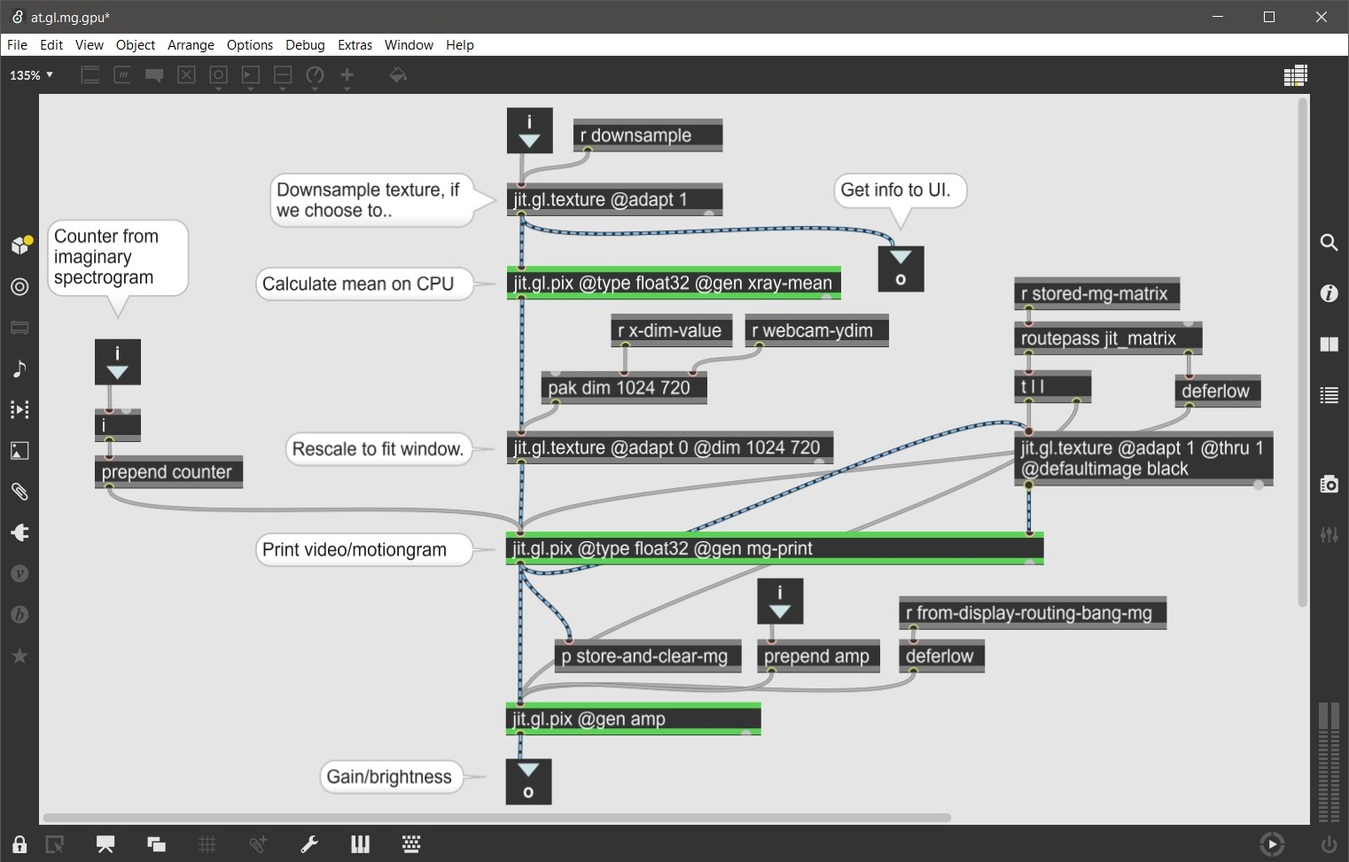
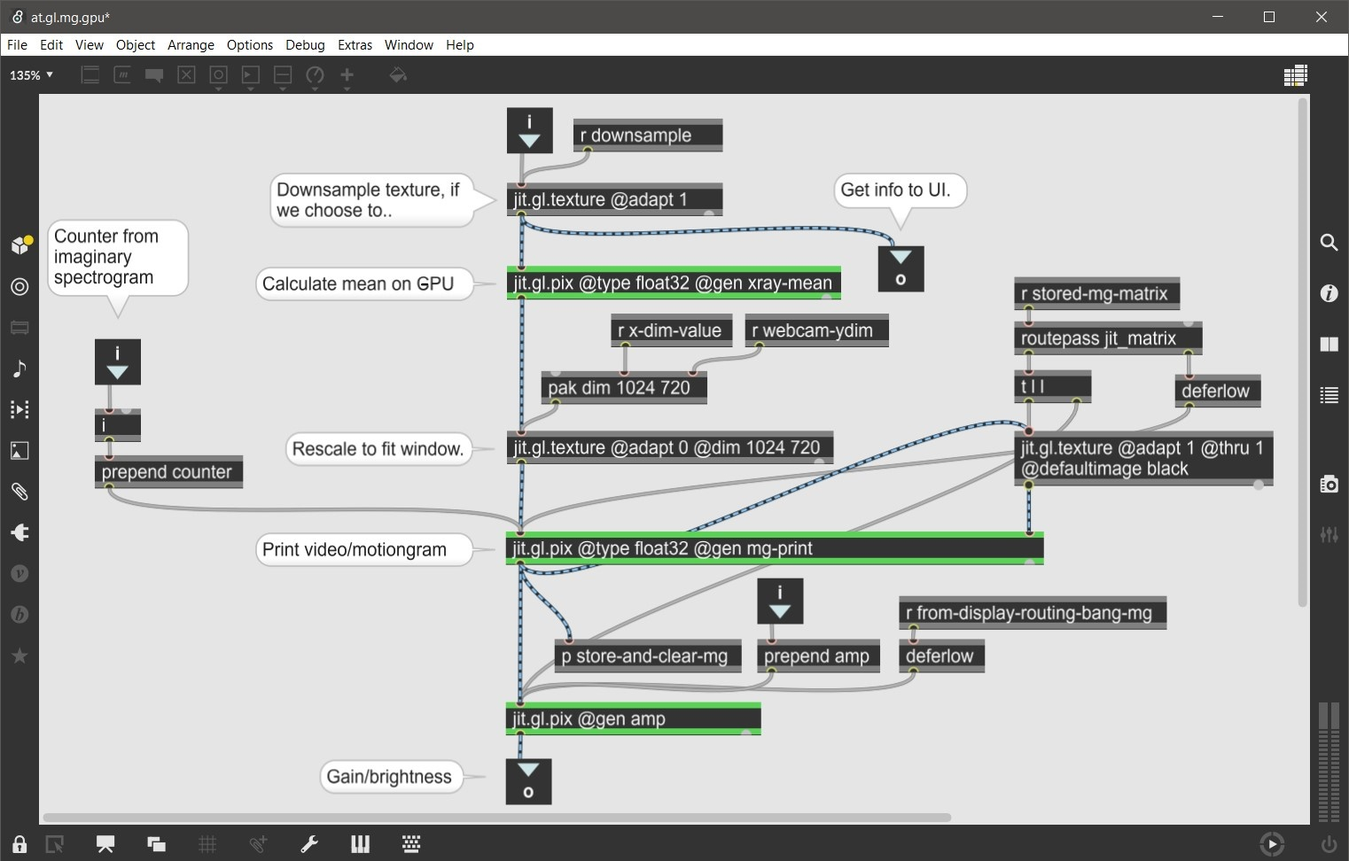
Post update

diff --git a/_posts/2020-08-04-how-to-process-spectral-mean-images.md b/_posts/2020-08-04-how-to-process-spectral-mean-images.md
@@ -20,12 +20,12 @@ As the title might suggest, in this post we will investigate what the most optim
 My investigation consists of an experiment where I designed and tested several of these OpenGL spectral mean image-producing systems in Max/MSP/Jitter to determine which was most effective. After briefly on elaborating on the background and method of this experiment, I will discuss the results before finally presenting the winning system(!)
 
 # Background
-Spectral mean images are representations of movement over time. These images are created by calculating the mean values of either every row or column of an incoming matrix, depending on if we want to represent time on the horizontal or vertical axis, and subsequently printing the outputted one-dimension matrices across a canvas or display.
+Spectral mean images are representations of movement over time. These images are created by calculating the vector mean values of either every row or column of an incoming matrix, depending on if we want to represent time on the horizontal or vertical axis, and subsequently printing the outputted one-dimension matrices across a canvas or display.
 
 <figure style="float: none">
    <img src="/assets/img/2020_08_04_spectral_motiongram_diagram.jpg" alt="motiongram diagram"
    title="motiongram diagram" width="640" />
-   <figcaption>Calculating mean values for every row of a frame (matrix) can be used to create a spectral mean image with time on its horizontal axis.</figcaption>
+   <figcaption>Simplified(!) image rendition of the vector mean process in question. When we process mean values along every row of a frame, we can use to create a spectral motion image with time on the horizontal axis. Since the alpha plane is a constant (1) its not included in this image.</figcaption>
 </figure>
 
 If we produce a spectral mean image from a motion image, we have something called a motiongram. We create a motion image by extracting the difference between two sequential frames of a video. This will render only the movement of the video in color while leaving the rest of the image black. The idea and concept behind motiongrams have been thoroughly researched and explored by professor [**Alexander Refsum Jensenius**](http://people.uio.no/alexanje) at the University of Oslo. You can read much more about this research side of videograms and motiongrams [**in this article**](https://www.duo.uio.no/handle/10852/26907).  
@@ -38,7 +38,7 @@ If we produce a spectral mean image from a motion image, we have something calle
 
 In the outdated version of AudioVideoAnalysis, the application I was tasked to whip into shape, this mean calculating process was handled by a MaxMSP external object called ```[xray.jit.mean]```. The XRAY external package was developed by Wesley Smith ([**read more here**](https://cycling74.com/forums/get-the-xray-package-by-wesley-smith/)) and is a set of jitter objects that do video processing on the CPU, the same way every other jitter object in MaxMSP operates. However, when dealing with graphics and video processing in MaxMSP today, it's highly recommended you "wrap your code" in something called an OpenGL context that enables your GPU to take care of all the graphical processing. OpenGL (Open Graphics Library) is a cross-platform graphics interface for 3D and 2D graphics and is often considered an industry standard in digital graphics circles. Because of this, I wanted the new version of AudioVideoAnalysis to have OpenGL image rendering. However, this gave rise to an interesting problem:
 
-> **Should an OpenGL spectral mean image system in Max/MSP/Jitter do pixel mean calculations on the CPU or the GPU?**
+> **Should an OpenGL spectral mean image system in Max/MSP/Jitter do vector mean calculations on the CPU or the GPU?**
 
 # The Problem Explained
 When doing computationally expensive tasks like calculating thousands (if not millions) of mathematical operations many times per second, as our system demands, the general norm is that these operations should be executed on the CPU. This is because the CPU is specifically designed for these kinds of tasks while the GPU is more optimized to deal with graphics. [**There's a great video**](https://www.youtube.com/watch?v=V3_p9R7YG-g) on the pros and cons of processing video in Max/MSP/Jitter on the CPU vs. the GPU by Federico Foderero. Be sure to check it out if you're interested in learning more.
@@ -129,23 +129,23 @@ In addition to having a fixed I/O vector size, signal vector size and sampling r
 
 # System Design
 
-Creating a spectral mean image system requires much more than just a process which calculates the mean of an image. I will therefore start by presenting how some of the more general features are designed in the **isolated system configurations**, before I go in-depth on how each of the different mean calculating methods are constructed.
+Creating a system that explores spectral mean images requires more than just a method for vector mean calculation. In this section I will explain which key processes are necessary to build these system, with the **isolated system configuration** as my focal point, before I go in-depth on how each of the different mean calculating methods are constructed.
 
 ### Overview
 
 <figure style="float: none">
   <img src="/assets/img/2020_08_04_spectral_system_overview.jpg"
   alt="System overview" title="System Overview" width="auto" />
-  <figcaption>System overview. The objects in blue are custom abstractions which grab the video-feed (at.webcam), create a motion image (at.vg.mg.selector), provides a counting mechanism (at.imaginary.fft.counter) and finally processes the mean images (at.gl.mg.cpu/gpu). All systems are created in Max/MSP/Jitter version 8.1.5</figcaption>
+  <figcaption>System overview. The objects in blue are abstractions which grab the video-feed (at.webcam), create a motion image (at.vg.mg.selector), provide a counting mechanism (at.imaginary.fft.counter) and finally calculates the vector means (at.gl.mg.cpu/gpu). All systems are created in Max/MSP/Jitter version 8.1.5</figcaption>
 </figure>
 
-In the image above, notice the ```[jit.gl.layer]``` and ```[jit.world]``` objects. I've set the systems maximum framerate by feeding a value to the @fps attribute in the [jit.world] object. Alternatively, I could set the @interval attribute to 17 for the same effect, a value that represents how many milliseconds between consecutive frames. More so, It's important to disable sync by adding @sync 0. The sync attribute let's us sync our image rendering to the fresh rate of our monitors, a feature I don't want in my particular case. The [jit.gl.layer] is where the image is sent to the [jit.world] to be rendered on the screen. Here, I specify that I want to preserve the aspect ratio of the incoming image in the rendered display window (@perserve_aspect 1) and that I want the image to be automatically scaled to fit the entire display window at any given time (@transform_reset 2).
+In the image above, notice the ```[jit.gl.layer]``` and ```[jit.world]``` objects. By setting the @fps attribute to 60 in the [jit.world] object, I can determine the systems maximum framerate. Alternatively, I could set the @interval attribute to 17 that would determine the maximum time interval (in milliseconds) between consecutive frames. The [jit.gl.layer] object sends content that is to be rendered on the screen to the [jit.world]. Here, It's important to make explicit that I want to preserve the aspect ratio of the incoming image (@perserve_aspect 1) and that I want the image to be automatically scaled to fit the entire display window at any given time (@transform_reset 2).
 
 <!--*
 overdrive off(!) because we are doing video processing.
 -->
 
-To access my machines web-camera, and to make it output video content in a OpenGL context, I use the ```[jit.qt.grab]```object with an @output_texture attribute set to 1. This object is located inside the blue [at.webcam] abstraction, shown in the image above. At this stage, I also enable the @unique attribute to makes sure no identical frames are outputted, a feature that is important for the next stage of creating a motion image.
+To access my machines web-camera, and to make it output video information in a OpenGL context, I use the ```[jit.qt.grab]```object with the @output_texture attribute set to 1. This object is located inside the blue [at.webcam] abstraction, shown in the image above. At this stage, I also enable the @unique attribute to makes sure no identical frames are outputted, a feature that's important for the next step which is creating a motion image.
 
 ### Motion image
 
@@ -155,9 +155,9 @@ To access my machines web-camera, and to make it output video content in a OpenG
   <figcaption>To create a motion image we calculate the difference between two frames. This image is a representation of what's inside the [at.vg.mg.selector] abstraction, seen in blue in the overview image above.</figcaption>
 </figure>
 
-As mentioned, a motion image is the result of calculating the difference between two consecutive frames. To do this in an OpenGL context, we can split and flip the order of frames before passing them through a [absdiff] calculation inside a ```[jit.gl.pix]``` object, as the image above shows. Having the @unique attribute enabled in the [jit.qt.grab] is essential because we never want to calculate the difference between two equal frames. The would result in an undesired amount of black frames between our rendered image frames.
+As mentioned, a motion image is the result of calculating the difference between two consecutive frames. To do this in an OpenGL context, we can split and flip the order of frames before passing them through a [absdiff] object inside a ```[jit.gl.pix]``` object. Having the @unique attribute enabled in the [jit.qt.grab] is essential because we never want to calculate the difference between two equal frames. This would result in an undesired amount of black/missing frames in our rendered spectral image.
 
-At this stage I also added 2 optional noise filters (binary and unary) that are used to optimize the motion image. Finally, I set the systems data type to float32 (storing 32-bit floating point values) to ensure greater processing precision down the line.
+At this stage I also added 2 optional noise filters (binary and unary) that can be used to optimize the quality of the motion image. Finally, I set the systems data type to float32 (storing 32-bit floating point values) to ensure greater processing precision down the line.
 
 ### Printing Rate
 
@@ -167,13 +167,13 @@ At this stage I also added 2 optional noise filters (binary and unary) that are 
   <figcaption>By making the counter length/size the same as the horizontal dimension (X-dim) of the rendered image, I can control the printing rate by adjusting the X-dim size. This image is a representation of what's inside the [at.imaginary.fft.counter] abstraction, seen in blue in the overview image above.</figcaption>
 </figure>
 
-For simplicities' sake, I decided to adapt a technique I used in my [**AudioVideoAnalysis**](https://aleksandertidemann.github.io/projects/2020/07/24/audiovideoanalysis.html) application to manage the printing rate of my spectral images. This design is based on MSP (audio signals) and uses specific FFT parameters, originally used to control the printing rate of a spectrogram, as its points of reference.
+For simplicities' sake, I decided to adapt a technique I used in the [**AudioVideoAnalysis application**](https://aleksandertidemann.github.io/projects/2020/07/24/audiovideoanalysis.html) to manage the printing rate of my spectral images. This design is based on MSP (audio signals) and uses specific FFT parameters, originally used to control the printing rate of a spectrogram, as its points of reference.
 
-In this method, I can adjust the rate of the printing by manipulating a dial that outputs normalized values ranging from 0 to 1. These values are then used to configure the size of the horizontal dimension (X-dim) of the rendered image, as well as to extract the printing time (in seconds). However, this requires us to have a fixed X-dim range, a range which I sat from 100 to 1024.
+In this method, I can adjust the rate of the printing by manipulating a dial that outputs normalized values ranging from 0 to 1. These values are then used to configure the size of the horizontal dimension (X-dim) of the rendered image, as well as to extract the printing time (in seconds). However, this requires us to have a fixed X-dim range, a range which I determined to be from 100 to 1024.
 
-Furthermore, I set the fundamental MSP ```[count~]``` object to count between a range of 0 and 5291926,6 because this number divided by 5167.9 (an essentially arbitrary number) amounts to a counting range from 0 to 1024 (our max X-dim) where one revolution is made every 60 seconds, presuming the samplerate is 44.1Khz. Next I compensated for an FFT Hopsize of 4 by simply multiplying the entire signal by 2, before allowing the maximum value of the counting range to de decided by the newly configured X-dim size.
+Furthermore, I set the fundamental MSP ```[count~]``` object to count between a range of 0 and 5291926,6 because this number divided by 5167.9 (an essentially arbitrary number) amounts to a range from 0 to 1024 (our max X-dim) where one cycle is made every 60 seconds, presuming the samplerate is 44.1Khz. Next I compensated for an FFT Hopsize of 4 by simply multiplying the entire signal by 2 before allowing the maximum value of the counting range to de decided by the newly configured X-dim size.
 
-The overall take-away here is that I adjust the printing rate by effectively "zooming in" on the spectral images.
+The overall take-away here is that I adjust the printing rate by effectively "zooming in" on the spectral images. Not a particularly elegant method, but an effective one.
 
 <figure style="float: none">
   <img src="/assets/img/2020_08_04_spectral_printing.jpg"
@@ -181,29 +181,30 @@ The overall take-away here is that I adjust the printing rate by effectively "zo
   <figcaption></figcaption>
 </figure>
 
-The final counter values are then sent to another ```[jit.gl.pix]``` object where they decide the specific horizontal location of the incoming spectral mean images/frames. The outputted image is then looped back into the [jit.gl.pix], as well as to the display window, to create the desired effect of an images printed across a canvas over time.
+The final counter values are then sent to another ```[jit.gl.pix]``` object where they decide the specific horizontal locations for the incoming spectral mean images/frames and produce the desired effect of an image printed across a canvas over time.
 
 ## XRAY method
 
 <figure style="float: none">
   <img src="/assets/img/2020_08_04_spectral_cpu_xray_method.jpg"
   alt="cpu xray method" title="cpu xray method" width="auto" />
-  <figcaption>This method uses [jit.gl.asyncread] and [xray.jit.mean] in succession to readback a GPU image texture to the CPU to perform mean calculations. This image is a representation of what's inside the [at.gl.mg.cpu] abstraction, seen in blue in the overview image above</figcaption>
+  <figcaption>This method uses [jit.gl.asyncread] and [xray.jit.mean] in succession to readback an openGL texture to the CPU before performing the necessary mean calculations there. This image is a representation of what's inside the [at.gl.mg.cpu] abstraction, seen in blue in the overview image above</figcaption>
 </figure>
 
-As briefly mentioned in the Methods section, this system uses a ```[xray.jit.mean]``` object to process the mean calculations on the CPU. This object is not part of the standard Max/MSP/Jitter library so it has to downloaded as part of the "XRAY package" from Max' dedicated package manager. Additionally, I used an object called ```[jit.gl.asyncread]``` that is specifically design to handle readbacks from an OpenGL framebuffer and is therefore a considerable advantage to any video processing chain that seeks to migrate stuff from the GPU to the CPU.
+As briefly mentioned in the Methods section, the **XRAY method** system uses a ```[xray.jit.mean]``` object to process vector mean calculations on the CPU*. In addition, I used an object called ```[jit.gl.asyncread]``` that is specifically design to handle readbacks from an OpenGL framebuffer and is therefore a considerable advantage to any video processing chain that seeks to migrate stuff from the GPU to the CPU. Finally, I send the video processing back to the GPU by feeding the CPU matrix into a ```[jit.gl.texture]``` harboring our the vertical dimension of my current web-camera resolution and the horizontal dimension controlled by my current printing rate.
 
-Finally I send the video processing back to the GPU by feeding the CPU matrix into a ```[jit.gl.texture]``` harboring our the vertical dimension of my current web-camera resolution and the horizontal dimension controlled by my current printing rate.
+*
+<sub>This object is not part of the standard Max/MSP/Jitter library so it has to downloaded as part of the "XRAY package" from Max' dedicated package manager.</sub>
 
 ## GPU method
 
 <figure style="float: none">
   <img src="/assets/img/2020_08_04_spectral_gpu_method.jpg"
   alt="gpu method" title="gpu method" width="auto" />
-  <figcaption>This method does pixel mean calculations on the GPU by using a for-loop inside a [jit.gl.pix]. This image is a representation of what's inside the [at.gl.mg.gpu] abstraction, seen in blue in the overview image above</figcaption>
+  <figcaption>This method does vector mean calculations on the GPU by using a for-loop inside a [jit.gl.pix]. This image is a representation of what's inside the [at.gl.mg.gpu] abstraction, seen in blue in the overview image above</figcaption>
 </figure>
 
-As you can tell from the image above, the **GPU method** is almost identical to the XRAY one only replacing the [jit.gl.asyncread] and [xray.jit.mean] with a ```[jit.gl.pix]``` object. Since there are no Gen objects in Max that does specifically what [xray.jit.mean] does, I figured that the best way of recreating its functionality was to hard-code something inside the [jit.gl.pix] using a codebox object.
+As you can tell from the image above, the **GPU method** is almost identical to the **XRAY method**, except the [jit.gl.asyncread] and [xray.jit.mean] objects are replaced with a ```[jit.gl.pix]``` object. Since there are no Gen objects in Max that specifically does what [xray.jit.mean] does, I figured that the best way of recreating its functionality was to hard-code something inside the [jit.gl.pix] using a codebox object.
 
 We can code inside MaxMSP's Gen environment using the GenExpr programming language. Luckily, at this stage, I was fortunate enough to receive some aid from a great 3D graphics artist and avid Max/MSP/Jitter user named [**Federico Foderero**](https://www.federicofoderaro.com/). Federico helped me with the specific syntax needed for these lines of code and later expanded on my idea of creating an OpenGL equivalent of ```[xray.jit.mean]``` himself in [**this video**](https://www.youtube.com/watch?v=hcHyiSKLpUA&list=UUvDUaH2fbXP_Yc5Lc9UXfqA). To do the necessary mean calculations on OpenGL textures we can use this GenExpr code:
 
@@ -220,7 +221,7 @@ out1 = main;
 ```
 
 ## PIX method
-The **PIX method** is somewhat of a hybrid between the XRAY and GPU methods. The idea here is to basically implement the same **GPU method**, with a GenExpr for-loop inside a codebox object, but run it on the CPU instead. We can easily do this in Max by removing the "gl" tag in the [jit.gl.pix] object to create a ```[jit.pix]```object. However, as mentioned, it's important we use a [jit.gl.asyncread] whenever you want to migrate operations from the GPU to the CPU. The general recipe of this mean calculating method looks like this:
+The **PIX method** is somewhat of a hybrid between the XRAY and GPU methods. The idea here is to basically implement the same **GPU method**, with a GenExpr for-loop inside a codebox, but run it on the CPU instead. We can easily do this in Max by removing the "gl" tag in the [jit.gl.pix] object to create a ```[jit.pix]```object. However, as mentioned, it's important we use a [jit.gl.asyncread] whenever we want to migrate operations from the GPU to the CPU. The general recipe of this mean calculating method looks like this:
 
 ```
 [jit.gl.asyncread] //Readback from GPU to CPU
@@ -231,7 +232,7 @@ The **PIX method** is somewhat of a hybrid between the XRAY and GPU methods. The
 This method also gives me the opportunity to closer inspect how the GenExpr language performs and if there's any significant difference when executing it on the CPU vs. the GPU.
 
 # Results
-When testing each method, I rated them on a scale from 0-10 in each test condition. However, I only marked each system with either a 1 or 0 in the audio settings category, indicating *"yes, changing the audio settings did affect performance"* or *"no, changing the audio settings did not affect performance"*.
+When testing each method, I rated them on a scale from 0-10 in each test conditions except for the audio parameter category. In this cateory, a rating of 1 indicates *"yes, changing the audio settings did effect performance"* while 0 indicates *"no, changing the audio settings did not effect performance"*.
 
 ## XRAY Method
 
@@ -241,9 +242,9 @@ When testing each method, I rated them on a scale from 0-10 in each test conditi
   <figcaption>Test results for using the XRAY method to calculate mean values when processing spectral images. The higher the score, the better the performance. </figcaption>
 </figure>
 
-Not surprisingly, the overall performance of the **XRAY method** was good in both configurations. However, when displaying high resolution images (1280x720) in the AVA configuration, its performance did depended on which machine I was using. On my early 2011 Macbook pro, processing high resolution images in this configuration resulted in significantly more blank frames than content. However, on my more powerful Thinkpad both resolutions created usable and consisted motion images overall.  
+Not surprisingly, the overall performance of the **XRAY method** was good in both configurations. However, when displaying high resolution images (1280x720) in the AVA configuration, its performance did depended on which machine I was using. On my early 2011 Macbook pro, processing high resolution images in this configuration resulted in a steady accumulation of blank/missing frames here and there. However, on my more powerful Thinkpad, both resolutions created usable and consisted motion images overall.  
 
-But regardless of some performance discrepancies when pushing the system quite hard, the overall load of the **XRAY method** applications was surprisingly low with only 5-10% increase in CPU usage from processing downsampled (320x240) to high resolution images (1280x720) on both machines. Similarly, running the applications on machines in low battery had little or no effect their performance.  
+But regardless of some performance discrepancies when pushing the system quite hard, the overall load of the **XRAY method** applications was surprisingly low with only 5-10% increase in CPU utilization from processing downsampled (320x240) to high resolution images (1280x720). Similarly, running the applications on machines with low battery had little or no effect on their performance.  
 
 <figure style="float: left; margin-left: 10px;">
   <img src="/assets/img/2020_08_04_spectral_xray_ava_downsample_load.jpg"
@@ -254,14 +255,14 @@ But regardless of some performance discrepancies when pushing the system quite h
 <figure style="float:none">
   <img src="/assets/img/2020_08_04_spectral_xray_ava_highres_load.jpg"
   alt="xray-ava-highres-load" title="xray-ava-highres-load" width="320" />
-  <figcaption>When processing 1280x720 high resolution images with the XRAY method in the same system configuration, there was only a 5% increase in CPU usage. Similar results were documented on my Macbook pro. </figcaption>
+  <figcaption>When processing high resolution images (1280x720) with the XRAY method in the same system configuration, there was only a 5% increase in CPU usage. Similar results were documented on my Macbook pro. </figcaption>
 </figure>
 
-But despite these relatively low CPU loads, the method did not show very promising framerates. When processing low resolution images the lowest recorded framerate I recorded was at about 14/15, which is very much usable, but on higher resolution images the lowest FPS reading was down at almost 6.
+But despite these relatively low CPU loads, the systems did not show very promising framerates. When processing low resolution images the lowest recorded framerate was around 14/15, which is very much usable, but on higher resolution images the lowest FPS reading was down at almost 6.
 
-An interesting discovery was that changing the I/O Vector Size and Signal Vector Size had a noticeable impact on its performance. This was visible when processing high resolution images in the AVA configuration, but it might also have an impact in less stressful configurations just not directly visible. But the consistent behavior here was that increasing the values of these audio settings effectively reduced the amount of lost frames (blank spots), which makes perfect sense considering that higher vector sizes reduce CPU load.
+An interesting discovery was that changing the ```I/O Vector Size``` and ```Signal Vector Size``` had a noticeable impact on performance. This was visible and consistent when processing high resolution images in the AVA configuration. The behavior was that increasing the values of these audio settings effectively reduced the amount of lost frames (blank spots), which makes perfect sense considering that higher vector sizes should reduce CPU load.
 
-In terms of image quality, I noticed no real advantages of rendering spectral image from high resolution video (1280x720), other than the occasional missing frame, as opposed to a downsampled (320x240) video.feed as the images below illustrates. The only factor that had any impact on the displayed image resolution, was increasing the temporal resolution or printing rate. An expected feature, and side-effect, of my system design.
+In terms of image quality, there was no advantage of rendering spectral images from high resolution video (1280x720), other than the occasional missing frame, as opposed to a downsampled (320x240) video-feed. The only factor that had any impact on the displayed image resolution was increasing the temporal resolution, or printing rate, of the images. An expected feature and side-effect of my system design.
 
 <figure style="float: left; margin-left: 10px;">
   <img src="/assets/img/2020_08_04_spectral_xray_display_downsampled.jpg"
@@ -283,9 +284,9 @@ In terms of image quality, I noticed no real advantages of rendering spectral im
   <figcaption>Test results for using the GPU method to calculate mean values when processing spectral images. The higher the score, the better the performance.</figcaption>
 </figure>
 
-Overall, the **GPU Method** showed some promising results when processing downsampled video-feeds. However, when processing high resolution images the system struggled to produce usable images, regardless of configuration or machine.
+Overall, the **GPU Method** showed some promising results when processing downsampled video-feeds. When processing high resolution images the system struggled to produce usable images, regardless of configuration or machine.
 
-Interestingly, the GPU load of processing a downsampled video-feed with the **GPU Method** corresponded to the GPU load of processing both downsampled and high resolution video-feeds with the **XRAY method**, except using less of the CPU's resources. However, increasing the image resolution in the **GPU Method** also increased the GPU utilization, effectively maxing out its resources pretty quickly, therefore rendering higher resolution image processing pretty unusable.
+Interestingly, the GPU load of processing a downsampled video-feed with the **GPU Method** corresponded to the GPU load of processing both downsampled and high resolution video-feeds with the **XRAY method**, except it used *less* of the CPU's resources in the process. However, increasing the image resolution with the **XRAY method** did not amount to any significant increase in GPU utilization. In the **GPU method**, this increase in image resolution vastly increased the GPU utilization, effectively maxing out its resources pretty quickly.
 
 <figure style="float: left; margin-left: 10px;">
   <img src="/assets/img/2020_08_04_spectral_gpu_ava_downsample_load.jpg"
@@ -294,29 +295,27 @@ Interestingly, the GPU load of processing a downsampled video-feed with the **GP
 </figure>
 
 <figure style="float:none">
-  <img src="/assets/img/2020_08_04_spectral_xray_ava_highres_load.jpg"
-  alt="xray-ava-highres-load" title="xray-ava-highres-load" width="320" />
-  <figcaption>When processing 1280x720 high resolution images with the GPU method in the same configuration, the GPU resources maxed out and used consumed 19% of the CPU resrouces. Similar results were documented on my Macbook pro. </figcaption>
+  <img src="/assets/img/2020_08_04_spectral_gpu_ava_highres_load.jpg"
+  alt="gpu-ava-highres-load" title="gpu-ava-highres-load" width="320" />
+  <figcaption>When processing high resolution images (1280x720) with the GPU method in the same configuration, the GPU resources maxed out and used consumed 11% of the CPU resources. Similar results were documented on my Macbook pro. </figcaption>
 </figure>
 
 <br>
-<br>
-<br>
 
-Similar to the **XRAY Method**, the FPS readings of the **GPU Method** correlated strongly with the overall system load. That is, the higher the resolution of the video-feed the lower the frame rates. The lowest recorded FPS of the **GPU Method** in "high res mode" was as low as 3, while it remained pretty consistantly at 20 when processing lower resolution feeds.
+Similar to the **XRAY method**, the FPS readings of the **GPU method** correlated strongly with the overall system load. That is, the higher the resolution of the video-feed the lower the frame rates. The lowest recorded FPS of the **GPU method** in "HD mode" was as low as 3, while it remained pretty consistently at 20 when processing lower resolution image feeds.
 
-In terms of image quality, I noticed the same disadvantage of rendering higher resolution images as experienced in the **XRAY Method**. However, it was clear that this method had a higher occurrence of missing frames, regardless of processing resolutions, than the XRAY method and that the overall experience was of a less stable system.   
+In terms of image quality, I noticed the same disadvantage of rendering higher resolution images as experienced in the **XRAY Method**. However, it was clear that this method produced a higher frequency of missing frames, regardless of video resolution.
 
 <figure style="float: left; margin-left: 10px;">
   <img src="/assets/img/2020_08_04_spectral_gpu_display_highres.jpg"
   alt="GPU-isolated-highres-display" title="GPU-isolated-highres-display" width="320" />
-  <figcaption>High resolution motiongram (1280x720) using the GPU method in an isolated configuration.</figcaption>
+  <figcaption>High resolution motiongram (1280x720) using the GPU method in the isolated configuration.</figcaption>
 </figure>
 
 <figure style="float:none">
   <img src="/assets/img/2020_08_04_spectral_gpu_display_downsampled.jpg"
   alt="GPU-isolated-downsampled-display" title="GPU-isolated-downsampled-display" width="320" />
-  <figcaption>Downsampled motiongram (320x240) using the GPU method in an isolated configuration.</figcaption>
+  <figcaption>Downsampled motiongram (320x240) using the GPU method in the isolated configuration.</figcaption>
 </figure>
 
 <br>
@@ -331,7 +330,7 @@ In terms of image quality, I noticed the same disadvantage of rendering higher r
   <figcaption>Test results for using the PIX method to calculate mean values when processing spectral images. The higher the score, the better the performance.</figcaption>
 </figure>
 
-Another surprising discover was how awful the **PIX Method** performed considering it used the same code as the **GPU Method** only processed on the CPU instead. All the applications, in every configuration, instantly crashed when processing high resolution video-feeds with this method. More so, downsampling our video-feed had little or no positive effect on the load.
+Another surprising finding was how awful the **PIX method** performed considering it used the same code as the **GPU method** only running on the CPU instead. The systems instantly crashed when processing high resolution video-feeds with this method. More so, testing showed that downsampling the video-feed had little or no positive effect on the overall load.
 
 <figure style="float: left; margin-right: 20px;">
   <img src="/assets/img/2020_08_04_spectral_pix_downsampled_load.jpg"
@@ -339,8 +338,9 @@ Another surprising discover was how awful the **PIX Method** performed consideri
   <figcaption> Processing 320x240 images with the PIX method in the isolated configuration used close to 90% of my Thinkpad P53's CPU resources. Similar results were also documented on my Macbook pro. </figcaption>
 </figure>
 
-In fact, this method was so stressful on both my machines that it was challenging to get any data at all. However, when processing a downsampled video-feed on my Thinkpad I was able to register a stable (and whopping) 88% CPU utilization, which effectively explains the awful behavior. What's interesting here is that this might shed some light on how the GenExpr environment works and what kinds of processes it's optimized for. On the other hand, it might suggest that my code was sub-optimal.   
+In fact, this method was so stressful on both my machines that it was challenging to get any data at all. When processing a downsampled video-feed on my Thinkpad I was able to register a stable (and whopping) 88% CPU utilization, which effectively explains the awful behavior. What's interesting here is that this might shed some light on how the GenExpr environment works and what kinds of processes it's optimized for. On the other hand, it might suggest that my code was bad...   
 
+<br>
 <br>
 <br>
 <br>
@@ -348,20 +348,19 @@ In fact, this method was so stressful on both my machines that it was challengin
 <br>
 
 # Conclusion
-First of all, because of the small size of my experiment, the findings should not to be interpreted as being statistically significant in any way, nor does the experiment heed to a particularly high scientific standard as it does not factor inn or control a vast range of variables that might have effected the results. On the other hand, the findings do provide clear insights into how to design a system for creating spectral mean images in Max/MSP/Jitter.
+First of all, these findings should not to be interpreted as being statistically significant in any way due to the small size of the experiment. More so, it's worth mentioning that the experiment does not heed to a particularly high scientific standard as it does not factor inn or control a vast range of variables that might have contributed to its results. This being said, the findings do provide some valuable insights into how we should design a system that generates spectral mean images in Max/MSP/Jitter.
 
-So to briefly recap, in this experiment I sought to determine whether an OpenGL spectral mean image system in Max/MSP/Jitter should do its pixel mean calculations on the CPU or the GPU by testing three different such methods (XRAY, GPU and PIX method), in two different configurations (isolated and AVA), on two different machines (Thinkpad P53 and Macbook Pro 15" early 2011 model). The findings indicate that the **XRAY method** is the most stable; migrating the image content from the GPU to the CPU via a ```[jit.gl.asyncread]``` object and performs the actual calculations with an external object called ```[xray.jit.mean]```. However, assuming we process relatively low resolution images, the **GPU method** can actually be a better alternative as it performs equally well while putting less stress on the machines CPU. In other words, if you want a stable and highly controllable system that can accommodate various resolutions you should opt the for **XRAY method**. On the other hand, if you're only going to process relatively low resolution images and want to utilize most of your CPU power elsewhere, you should opt the **GPU method**.
+To briefly recap, in this experiment I sought to determine whether an OpenGL spectral mean image system in Max/MSP/Jitter should do its vector mean calculations on the CPU or the GPU by testing three different such methods (XRAY, GPU and PIX method), in two different configurations (isolated and AVA), on two different machines (Thinkpad P53 and Macbook Pro 15" early 2011 model). The findings show that the **XRAY method** was the most stable. However, assuming we process relatively low resolution images, the **GPU method** can actually be a better alternative as it performs equally well while putting less stress on the machines CPU. In other words, if you want a stable and highly controllable system that can accommodate various resolutions you should opt the for **XRAY method**. On the other hand, if you're only going to process relatively low resolution images and want to utilize most of your CPU power elsewhere, you should opt the **GPU method**.
 
-It's worth noting that the findings also revealed some interesting limitations with the code used to process the mean image in the GPU and PIX methods.
-These limitations might be attributed the nature of the GenExpr language itself, it's speed and so on, or might simply be a side-effect of a sub-optimal code structure (basically bad coding on my part). Unfortunately, I found too little technical documentation to be able to rule out or confirm any of these assumptions.  
+The findings also revealed some interesting limitations with the code used to generate the mean images in the GPU and PIX methods. These limitations might be attributed the nature of the GenExpr language itself, it's speed and so on, or might simply be a side-effect of a sub-optimal code structure (basically bad coding on my part). Unfortunately, I found too little technical documentation to be able to rule out or confirm any of these assumptions.  
 
 ## Algorithmic Downsampling
-The findings also suggest that we should always seek to downsample our video-feed before doing mean calculations, regardless of whether we use a XRAY or GPU method to generate our spectral images. The downsampling method I used in this experiment was pretty crude as it always downsampled the incoming image to 320x240. This is sub-optimal because we might run into scenarios where we want to process content with even lower dimensions, or where we want to have the opportunity to process high resolution images. In this case, it's worth briefly looking at how we can design a more dynamic and permanent downsampling method that can better accommodate for various needs.
+The findings also suggest that we should always seek to downsample our video-feed before doing mean calculations, regardless of whether we use an XRAY or GPU method to generate our spectral images. The downsampling method I used in this experiment was pretty crude as it always downsampled the incoming image to 320x240. This is not very elegant because we might run into scenarios where we want to process video with even smaller dimensions, or where we want to have the opportunity to process high resolution images for various reasons. In this case, it's worth briefly looking at how we can design a more dynamic and permanent **downsampling method**.
 
-To illustrate how we could take a more algorithmic approach to downsampling our matrices/textures, I designed a simple program in GenExpr that downsamples image dimensions based on a few conditions:
+To illustrate how we could take a more algorithmic approach to downsampling, I designed a simple program in GenExpr that downsamples image dimensions based on a few conditions:
 
-* **If** the horizontal dimension is larger than the vertical dim, and 1/3 of the horizontal dimension is *greater* than 320, **then** we scale the horizontal dim value down to 1/3 of its original size and downscale the vertical dimension to the value that ensures we preserve the aspect ratio of the incoming image.
-* However, **if** the horizontal dimension is larger than the vertical dim **and** 1/3 of the horizontal dimension is *smaller* than 320, we do nothing.
+* **If** the horizontal dimension is larger than the vertical dimension, **and** 1/3 of the horizontal dimension is *greater* than 320, **then** we scale the horizontal dimension to 1/3 of its original size and scale the vertical dimension to the value that ensures we preserve the aspect ratio of the incoming image.
+* However, **if** the horizontal dimension is larger than the vertical dimension, **and** 1/3 of the horizontal dimension is *smaller* than 320, we do nothing.
 
 The processes is the same if the vertical dimension is larger than the horizontal dimension, only then we use the vertical dimension as "the basis" for the aspect ratio and take 240 as the standard as opposed to 320. Here's what this translates to in GenExpr code:
 
@@ -399,3 +398,7 @@ if (in1 > in2) { //if X-dim is larger than Y-dim.
 out2 = ydim;
 out1 = xdim;
 ```
+
+## Download
+
+The source code for these spectral mean image systems are readily available at my [**GitHub page**](), so feel free to also enhance, change and/or explore!
